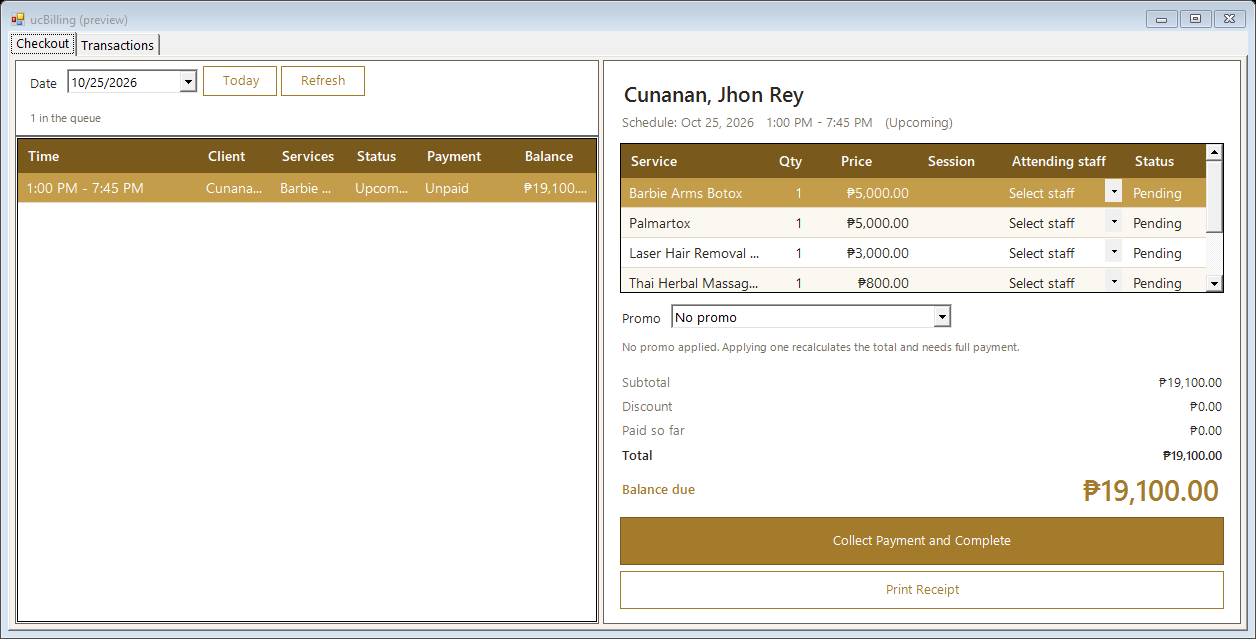
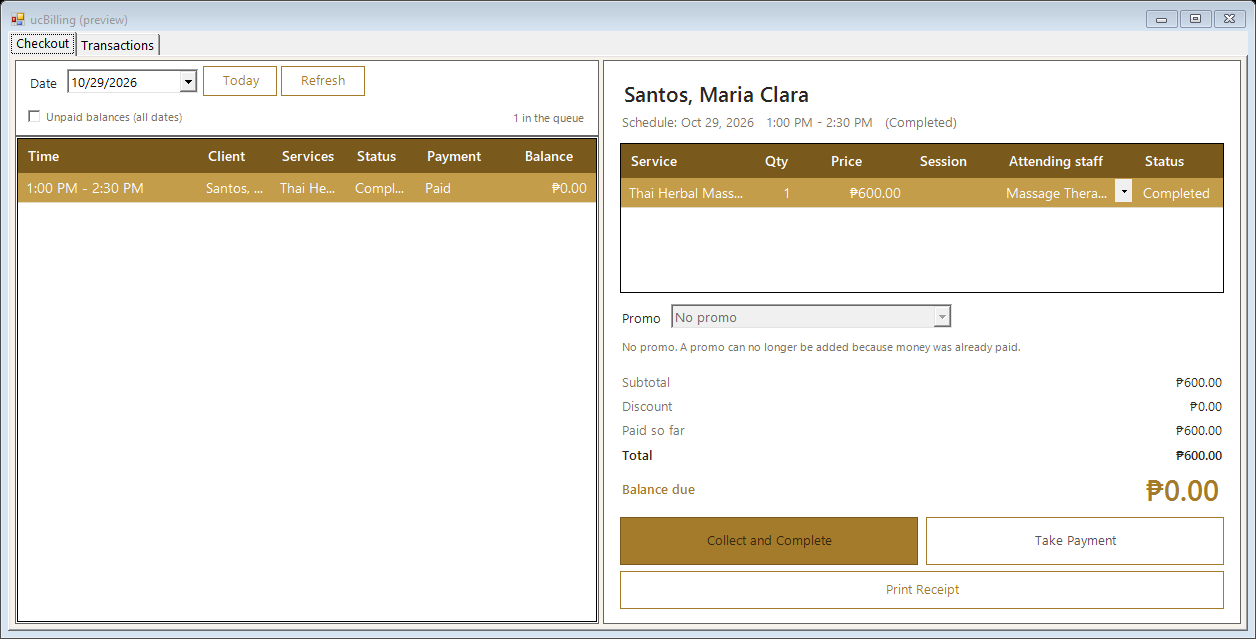
Prompt B1-4 Done

diff --git a/Controls/ucBilling.Designer.cs b/Controls/ucBilling.Designer.cs
@@ -65,6 +65,7 @@ namespace LittleEreseSystemV3.Controls
             this.dtpQueueDate = new System.Windows.Forms.DateTimePicker();
             this.btnQueueToday = new System.Windows.Forms.Button();
             this.btnRefresh = new System.Windows.Forms.Button();
+            this.chkAllBalances = new System.Windows.Forms.CheckBox();
             this.lblQueueCount = new System.Windows.Forms.Label();
             this.pnlBill = new System.Windows.Forms.Panel();
             this.tlpBill = new System.Windows.Forms.TableLayoutPanel();
@@ -94,6 +95,8 @@ namespace LittleEreseSystemV3.Controls
             this.lblBalanceTitle = new System.Windows.Forms.Label();
             this.lblBalance = new System.Windows.Forms.Label();
             this.btnCollect = new System.Windows.Forms.Button();
+            this.tlpBillButtons = new System.Windows.Forms.TableLayoutPanel();
+            this.btnTakePayment = new System.Windows.Forms.Button();
             this.btnPrintReceipt = new System.Windows.Forms.Button();
             this.tabTransactions = new System.Windows.Forms.TabPage();
             this.pnlTranGrid = new System.Windows.Forms.Panel();
@@ -139,6 +142,7 @@ namespace LittleEreseSystemV3.Controls
             ((System.ComponentModel.ISupportInitialize)(this.dgvBillLines)).BeginInit();
             this.flpPromo.SuspendLayout();
             this.tlpTotals.SuspendLayout();
+            this.tlpBillButtons.SuspendLayout();
             this.tabTransactions.SuspendLayout();
             this.pnlTranGrid.SuspendLayout();
             ((System.ComponentModel.ISupportInitialize)(this.dgvTransactions)).BeginInit();
@@ -347,16 +351,19 @@ namespace LittleEreseSystemV3.Controls
             // tlpQueueToolbar
             // 
             this.tlpQueueToolbar.BackColor = System.Drawing.Color.FromArgb(((int)(((byte)(255)))), ((int)(((byte)(255)))), ((int)(((byte)(255)))));
-            this.tlpQueueToolbar.ColumnCount = 1;
-            this.tlpQueueToolbar.ColumnStyles.Add(new System.Windows.Forms.ColumnStyle(System.Windows.Forms.SizeType.Percent, 100F));
+            this.tlpQueueToolbar.ColumnCount = 2;
+            this.tlpQueueToolbar.ColumnStyles.Add(new System.Windows.Forms.ColumnStyle(System.Windows.Forms.SizeType.Percent, 58F));
+            this.tlpQueueToolbar.ColumnStyles.Add(new System.Windows.Forms.ColumnStyle(System.Windows.Forms.SizeType.Percent, 42F));
+            this.tlpQueueToolbar.Controls.Add(this.chkAllBalances, 0, 1);
+            this.tlpQueueToolbar.Controls.Add(this.lblQueueCount, 1, 1);
             this.tlpQueueToolbar.Controls.Add(this.flpQueueTop, 0, 0);
-            this.tlpQueueToolbar.Controls.Add(this.lblQueueCount, 0, 1);
             this.tlpQueueToolbar.Dock = System.Windows.Forms.DockStyle.Fill;
             this.tlpQueueToolbar.Location = new System.Drawing.Point(0, 0);
             this.tlpQueueToolbar.Name = "tlpQueueToolbar";
             this.tlpQueueToolbar.RowCount = 2;
             this.tlpQueueToolbar.RowStyles.Add(new System.Windows.Forms.RowStyle(System.Windows.Forms.SizeType.Absolute, 40F));
             this.tlpQueueToolbar.RowStyles.Add(new System.Windows.Forms.RowStyle(System.Windows.Forms.SizeType.Absolute, 34F));
+            this.tlpQueueToolbar.SetColumnSpan(this.flpQueueTop, 2);
             this.tlpQueueToolbar.Size = new System.Drawing.Size(392, 74);
             this.tlpQueueToolbar.TabIndex = 0;
             // 
@@ -441,19 +448,34 @@ namespace LittleEreseSystemV3.Controls
             this.btnRefresh.UseVisualStyleBackColor = false;
             this.btnRefresh.Click += new System.EventHandler(this.btnRefresh_Click);
             // 
+            // chkAllBalances
+            // 
+            this.chkAllBalances.AutoSize = true;
+            this.chkAllBalances.Cursor = System.Windows.Forms.Cursors.Hand;
+            this.chkAllBalances.Font = new System.Drawing.Font("Segoe UI", 8.5F, System.Drawing.FontStyle.Regular, System.Drawing.GraphicsUnit.Point, ((byte)(0)));
+            this.chkAllBalances.ForeColor = System.Drawing.Color.FromArgb(((int)(((byte)(122)))), ((int)(((byte)(114)))), ((int)(((byte)(102)))));
+            this.chkAllBalances.Location = new System.Drawing.Point(12, 46);
+            this.chkAllBalances.Margin = new System.Windows.Forms.Padding(12, 6, 0, 0);
+            this.chkAllBalances.Name = "chkAllBalances";
+            this.chkAllBalances.Size = new System.Drawing.Size(160, 19);
+            this.chkAllBalances.TabIndex = 4;
+            this.chkAllBalances.Text = "Unpaid balances (all dates)";
+            this.chkAllBalances.UseVisualStyleBackColor = true;
+            this.chkAllBalances.CheckedChanged += new System.EventHandler(this.chkAllBalances_CheckedChanged);
+            // 
             // lblQueueCount
             // 
-            this.lblQueueCount.Anchor = System.Windows.Forms.AnchorStyles.Left;
+            this.lblQueueCount.Anchor = System.Windows.Forms.AnchorStyles.Right;
             this.lblQueueCount.AutoSize = true;
             this.lblQueueCount.Font = new System.Drawing.Font("Segoe UI", 8.5F, System.Drawing.FontStyle.Regular, System.Drawing.GraphicsUnit.Point, ((byte)(0)));
             this.lblQueueCount.ForeColor = System.Drawing.Color.FromArgb(((int)(((byte)(122)))), ((int)(((byte)(114)))), ((int)(((byte)(102)))));
-            this.lblQueueCount.Location = new System.Drawing.Point(12, 49);
-            this.lblQueueCount.Margin = new System.Windows.Forms.Padding(12, 0, 0, 0);
+            this.lblQueueCount.Location = new System.Drawing.Point(299, 49);
+            this.lblQueueCount.Margin = new System.Windows.Forms.Padding(0, 0, 12, 0);
             this.lblQueueCount.Name = "lblQueueCount";
             this.lblQueueCount.Size = new System.Drawing.Size(81, 15);
             this.lblQueueCount.TabIndex = 1;
             this.lblQueueCount.Text = "0 in the queue";
-            this.lblQueueCount.TextAlign = System.Drawing.ContentAlignment.MiddleLeft;
+            this.lblQueueCount.TextAlign = System.Drawing.ContentAlignment.MiddleRight;
             // 
             // pnlBill
             // 
@@ -481,7 +503,7 @@ namespace LittleEreseSystemV3.Controls
             this.tlpBill.Controls.Add(this.flpPromo, 0, 3);
             this.tlpBill.Controls.Add(this.lblPromoNote, 0, 4);
             this.tlpBill.Controls.Add(this.tlpTotals, 0, 5);
-            this.tlpBill.Controls.Add(this.btnCollect, 0, 6);
+            this.tlpBill.Controls.Add(this.tlpBillButtons, 0, 6);
             this.tlpBill.Controls.Add(this.btnPrintReceipt, 0, 7);
             this.tlpBill.Dock = System.Windows.Forms.DockStyle.Top;
             this.tlpBill.Location = new System.Drawing.Point(16, 16);
@@ -497,6 +519,22 @@ namespace LittleEreseSystemV3.Controls
             this.tlpBill.RowStyles.Add(new System.Windows.Forms.RowStyle(System.Windows.Forms.SizeType.Absolute, 42F));
             this.tlpBill.Size = new System.Drawing.Size(552, 532);
             this.tlpBill.TabIndex = 0;
+            // 
+            // tlpBillButtons
+            // 
+            this.tlpBillButtons.ColumnCount = 2;
+            this.tlpBillButtons.ColumnStyles.Add(new System.Windows.Forms.ColumnStyle(System.Windows.Forms.SizeType.Percent, 50F));
+            this.tlpBillButtons.ColumnStyles.Add(new System.Windows.Forms.ColumnStyle(System.Windows.Forms.SizeType.Percent, 50F));
+            this.tlpBillButtons.Controls.Add(this.btnCollect, 0, 0);
+            this.tlpBillButtons.Controls.Add(this.btnTakePayment, 1, 0);
+            this.tlpBillButtons.Dock = System.Windows.Forms.DockStyle.Fill;
+            this.tlpBillButtons.Location = new System.Drawing.Point(0, 446);
+            this.tlpBillButtons.Margin = new System.Windows.Forms.Padding(0);
+            this.tlpBillButtons.Name = "tlpBillButtons";
+            this.tlpBillButtons.RowCount = 1;
+            this.tlpBillButtons.RowStyles.Add(new System.Windows.Forms.RowStyle(System.Windows.Forms.SizeType.Percent, 100F));
+            this.tlpBillButtons.Size = new System.Drawing.Size(552, 50);
+            this.tlpBillButtons.TabIndex = 6;
             // 
             // lblBillClient
             // 
@@ -889,14 +927,35 @@ namespace LittleEreseSystemV3.Controls
             this.btnCollect.FlatStyle = System.Windows.Forms.FlatStyle.Flat;
             this.btnCollect.Font = new System.Drawing.Font("Segoe UI", 10F, System.Drawing.FontStyle.Regular, System.Drawing.GraphicsUnit.Point, ((byte)(0)));
             this.btnCollect.ForeColor = System.Drawing.Color.White;
-            this.btnCollect.Location = new System.Drawing.Point(0, 446);
-            this.btnCollect.Margin = new System.Windows.Forms.Padding(0, 6, 0, 2);
+            this.btnCollect.Location = new System.Drawing.Point(0, 6);
+            this.btnCollect.Margin = new System.Windows.Forms.Padding(0, 6, 4, 2);
             this.btnCollect.Name = "btnCollect";
-            this.btnCollect.Size = new System.Drawing.Size(552, 48);
-            this.btnCollect.TabIndex = 6;
-            this.btnCollect.Text = "Collect Payment and Complete";
+            this.btnCollect.Size = new System.Drawing.Size(272, 42);
+            this.btnCollect.TabIndex = 0;
+            this.btnCollect.Text = "Collect and Complete";
             this.btnCollect.UseVisualStyleBackColor = false;
             this.btnCollect.Click += new System.EventHandler(this.btnCollect_Click);
+            // 
+            // btnTakePayment
+            // 
+            this.btnTakePayment.BackColor = System.Drawing.Color.White;
+            this.btnTakePayment.Cursor = System.Windows.Forms.Cursors.Hand;
+            this.btnTakePayment.Dock = System.Windows.Forms.DockStyle.Fill;
+            this.btnTakePayment.FlatAppearance.BorderColor = System.Drawing.Color.FromArgb(((int)(((byte)(164)))), ((int)(((byte)(123)))), ((int)(((byte)(43)))));
+            this.btnTakePayment.FlatAppearance.BorderSize = 1;
+            this.btnTakePayment.FlatAppearance.MouseDownBackColor = System.Drawing.Color.FromArgb(((int)(((byte)(227)))), ((int)(((byte)(218)))), ((int)(((byte)(198)))));
+            this.btnTakePayment.FlatAppearance.MouseOverBackColor = System.Drawing.Color.FromArgb(((int)(((byte)(247)))), ((int)(((byte)(243)))), ((int)(((byte)(234)))));
+            this.btnTakePayment.FlatStyle = System.Windows.Forms.FlatStyle.Flat;
+            this.btnTakePayment.Font = new System.Drawing.Font("Segoe UI", 10F, System.Drawing.FontStyle.Regular, System.Drawing.GraphicsUnit.Point, ((byte)(0)));
+            this.btnTakePayment.ForeColor = System.Drawing.Color.FromArgb(((int)(((byte)(164)))), ((int)(((byte)(123)))), ((int)(((byte)(43)))));
+            this.btnTakePayment.Location = new System.Drawing.Point(280, 6);
+            this.btnTakePayment.Margin = new System.Windows.Forms.Padding(4, 6, 0, 2);
+            this.btnTakePayment.Name = "btnTakePayment";
+            this.btnTakePayment.Size = new System.Drawing.Size(272, 42);
+            this.btnTakePayment.TabIndex = 1;
+            this.btnTakePayment.Text = "Take Payment";
+            this.btnTakePayment.UseVisualStyleBackColor = false;
+            this.btnTakePayment.Click += new System.EventHandler(this.btnTakePayment_Click);
             // 
             // btnPrintReceipt
             // 
@@ -1352,6 +1411,7 @@ namespace LittleEreseSystemV3.Controls
             this.flpPromo.ResumeLayout(false);
             this.flpPromo.PerformLayout();
             this.tlpTotals.ResumeLayout(false);
+            this.tlpBillButtons.ResumeLayout(false);
             this.tabTransactions.ResumeLayout(false);
             this.pnlTranGrid.ResumeLayout(false);
             ((System.ComponentModel.ISupportInitialize)(this.dgvTransactions)).EndInit();
@@ -1387,6 +1447,7 @@ namespace LittleEreseSystemV3.Controls
         private System.Windows.Forms.DateTimePicker dtpQueueDate;
         private System.Windows.Forms.Button btnQueueToday;
         private System.Windows.Forms.Button btnRefresh;
+        private System.Windows.Forms.CheckBox chkAllBalances;
         private System.Windows.Forms.Label lblQueueCount;
         private System.Windows.Forms.Panel pnlBill;
         private System.Windows.Forms.TableLayoutPanel tlpBill;
@@ -1416,6 +1477,8 @@ namespace LittleEreseSystemV3.Controls
         private System.Windows.Forms.Label lblBalanceTitle;
         private System.Windows.Forms.Label lblBalance;
         private System.Windows.Forms.Button btnCollect;
+        private System.Windows.Forms.TableLayoutPanel tlpBillButtons;
+        private System.Windows.Forms.Button btnTakePayment;
         private System.Windows.Forms.Button btnPrintReceipt;
         private System.Windows.Forms.Panel pnlTranGrid;
         private System.Windows.Forms.DataGridView dgvTransactions;

diff --git a/Controls/ucBilling.cs b/Controls/ucBilling.cs
@@ -47,6 +47,7 @@ namespace LittleEreseSystemV3.Controls
             Theme.StyleSecondaryButton(btnQueueToday);
             Theme.StyleSecondaryButton(btnRefresh);
             Theme.StylePrimaryButton(btnCollect);
+            Theme.StyleSecondaryButton(btnTakePayment);
             Theme.StyleSecondaryButton(btnPrintReceipt);
             Theme.StylePrimaryButton(btnSearch);
             Theme.StyleSecondaryButton(btnReprint);
@@ -215,7 +216,10 @@ namespace LittleEreseSystemV3.Controls
             {
                 try
                 {
-                    dgvQueue.DataSource = BillingRepository.GetQueue(dtpQueueDate.Value.Date);
+                    // The tick shows every unpaid balance on any date; the day queue is the default.
+                    dgvQueue.DataSource = chkAllBalances.Checked
+                        ? BillingRepository.GetBalances()
+                        : BillingRepository.GetQueue(dtpQueueDate.Value.Date);
                 }
                 catch (Exception ex)
                 {
@@ -242,7 +246,14 @@ namespace LittleEreseSystemV3.Controls
                 _loading = false;
             }
 
-            lblQueueCount.Text = dgvQueue.Rows.Count + " in the queue";
+            // The two lists are counted in their own words: the day queue or every open balance.
+            lblQueueCount.Text = chkAllBalances.Checked
+                ? dgvQueue.Rows.Count + " unpaid balances"
+                : dgvQueue.Rows.Count + " in the queue";
+
+            // The date picker only makes sense for the day queue.
+            dtpQueueDate.Enabled = !chkAllBalances.Checked;
+            btnQueueToday.Enabled = dtpQueueDate.Enabled;
 
             if (appointmentId > 0) ShowBill(appointmentId);
             else ClearBill();
@@ -363,6 +374,11 @@ namespace LittleEreseSystemV3.Controls
             }
 
             btnCollect.Enabled = !completed && !cancelled;
+
+            // A payment can be taken at any time on a bill that still owes something.
+            btnTakePayment.Enabled = !completed && !cancelled &&
+                Db.Get<decimal>(header["balance_due"]) > 0m;
+
             btnPrintReceipt.Enabled = true;
         }
 
@@ -394,6 +410,7 @@ namespace LittleEreseSystemV3.Controls
             lblBalance.Text = Money.Text(0m);
 
             btnCollect.Enabled = false;
+            btnTakePayment.Enabled = false;
             btnPrintReceipt.Enabled = false;
         }
 
@@ -514,6 +531,20 @@ namespace LittleEreseSystemV3.Controls
             ReceiptPrinter.Print(Db.Get<int>(_bill["billing_id"]), true);
         }
 
+        /// <summary>
+        /// Takes a payment on its own (no completion): a down payment at any time, a part of the
+        /// balance or the rest of it. The queue is filled again with the same appointment selected.
+        /// </summary>
+        private void btnTakePayment_Click(object sender, EventArgs e)
+        {
+            int appointmentId = CurrentAppointmentId();
+            if (appointmentId <= 0) return;
+
+            PaymentForm.TakePayment(this, appointmentId, "Payment - appointment #" + appointmentId);
+
+            LoadQueue(appointmentId);
+        }
+
         private void dgvBillLines_CurrentCellDirtyStateChanged(object sender, EventArgs e)
         {
             // The staff drop-down only reports a change once the edit is committed.
@@ -587,6 +618,12 @@ namespace LittleEreseSystemV3.Controls
         private void btnRefresh_Click(object sender, EventArgs e)
         {
             LoadQueue(CurrentAppointmentId());
+        }
+
+        private void chkAllBalances_CheckedChanged(object sender, EventArgs e)
+        {
+            if (_loading) return;
+            LoadQueue(0);
         }
 
         private void dgvQueue_SelectionChanged(object sender, EventArgs e)

diff --git a/PROGRESS.md b/PROGRESS.md
@@ -2,6 +2,24 @@
 
 Update this file at the end of every task.
 
+- Step 68 (this task): the Billing screen can take a payment on its own, on any date.
+  - Controls\ucBilling.Designer.cs: new Button btnTakePayment ("Take Payment", same size and style
+    as its neighbour) in a new tlpBillButtons row next to btnCollect, whose text is now "Collect and
+    Complete"; new CheckBox chkAllBalances ("Unpaid balances (all dates)") in pnlQueueToolbar on the
+    second row, left of lblQueueCount (which stays right aligned). Nothing overlaps.
+  - Controls\ucBilling.cs: btnTakePayment is enabled when the appointment is not Completed or
+    Cancelled and balance_due > 0 (UpdateControls); Click -> PaymentForm.TakePayment(this, id,
+    "Payment - appointment #n") then LoadQueue(id). chkAllBalances checked: LoadQueue fills the grid
+    from BillingRepository.GetBalances(), the date picker and "Today" are disabled and lblQueueCount
+    reads "<n> unpaid balances"; unchecked: the day queue exactly as before. The selection is kept.
+  - "Collect and Complete" keeps its rules (future dates still refused, the attending staff
+    dropdown per line unchanged). PROJECT_RULES.md: no change (no new business rule).
+  - No .csproj change. docs\screenshots\ucBilling.png and ucBilling_Staff.png regenerated.
+  - Checks: clean rebuild 0 errors / 0 warnings; DesignerAudit 22 files exit 0; --preview ucBilling
+    exit 0 (screenshot checked: new button and tick fit, nothing overlaps or is cut off);
+    --smoketest 94 passed / 0 failed / 0 skipped; app started once, stayed open, closed, no error.log.
+  - Open Controls\ucBilling.cs in the Designer to check the new button and the new tick.
+
 - Step 67 (this task): the payment dialog is now reachable from the appointment flow.
   - Forms\AppointmentForm.cs SaveNewBooking: right after AppointmentRepository.Create the payment
     dialog opens as the next screen (PaymentForm.TakePayment(this, appointmentId, "Down payment -
